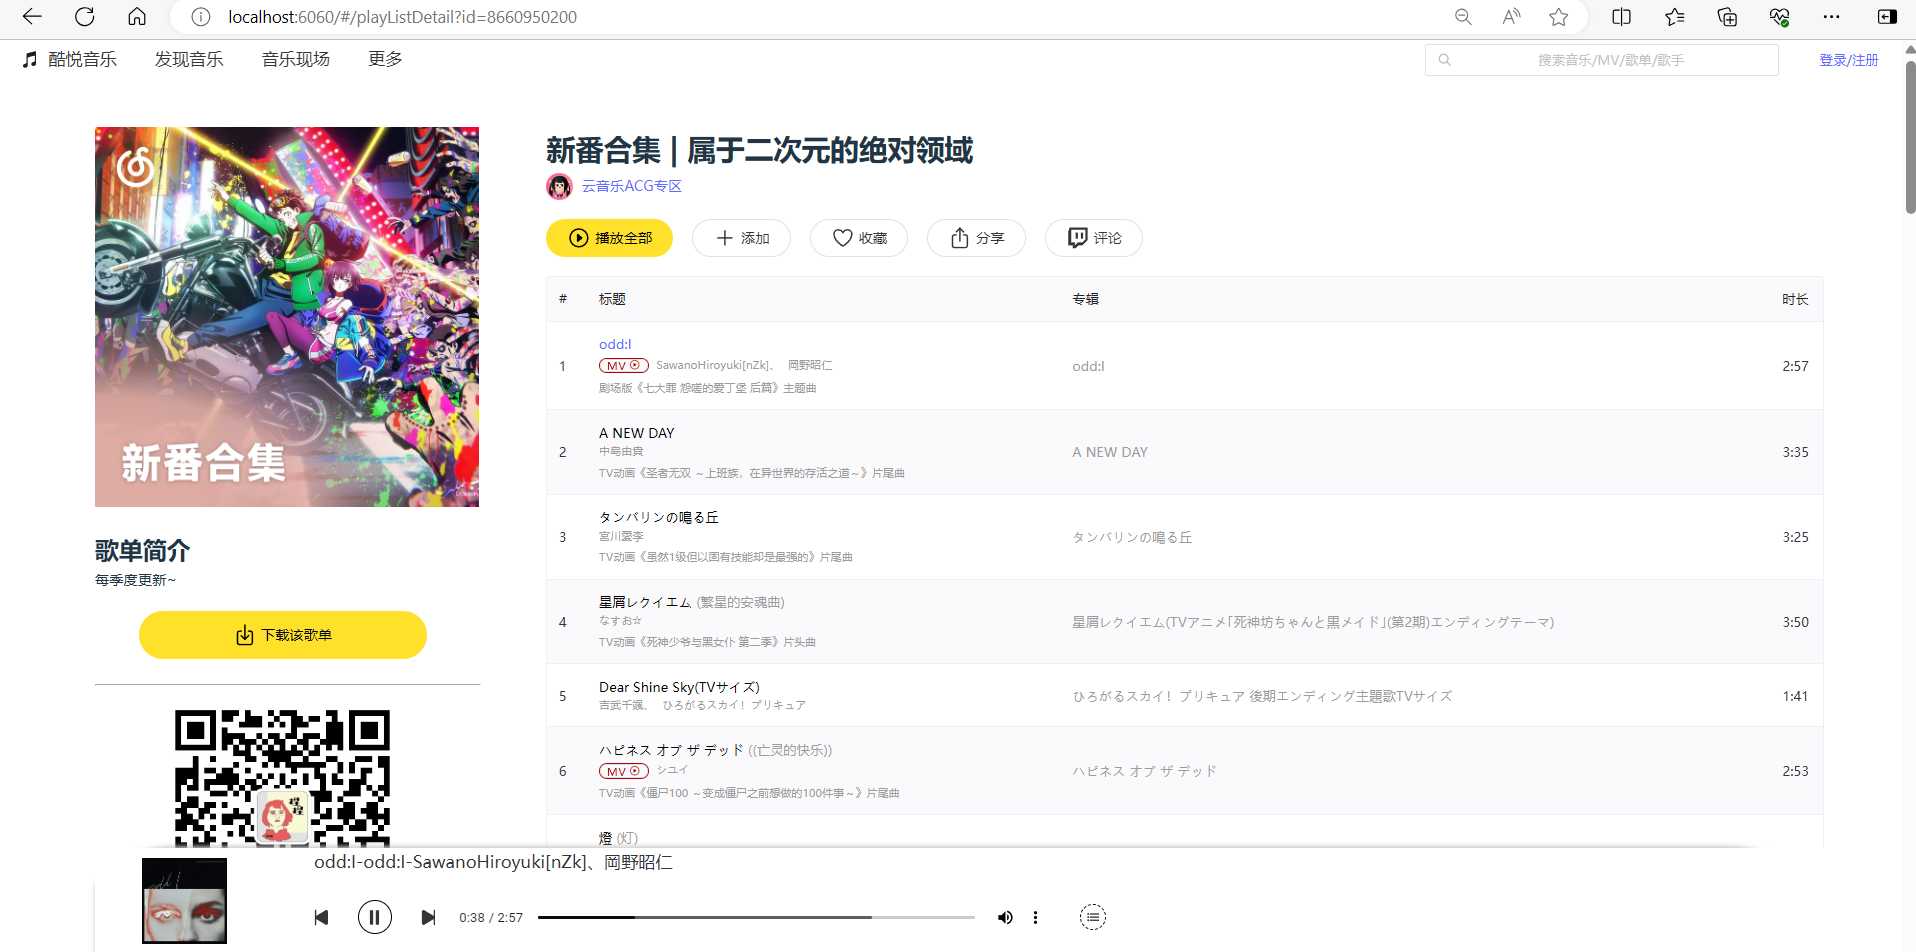
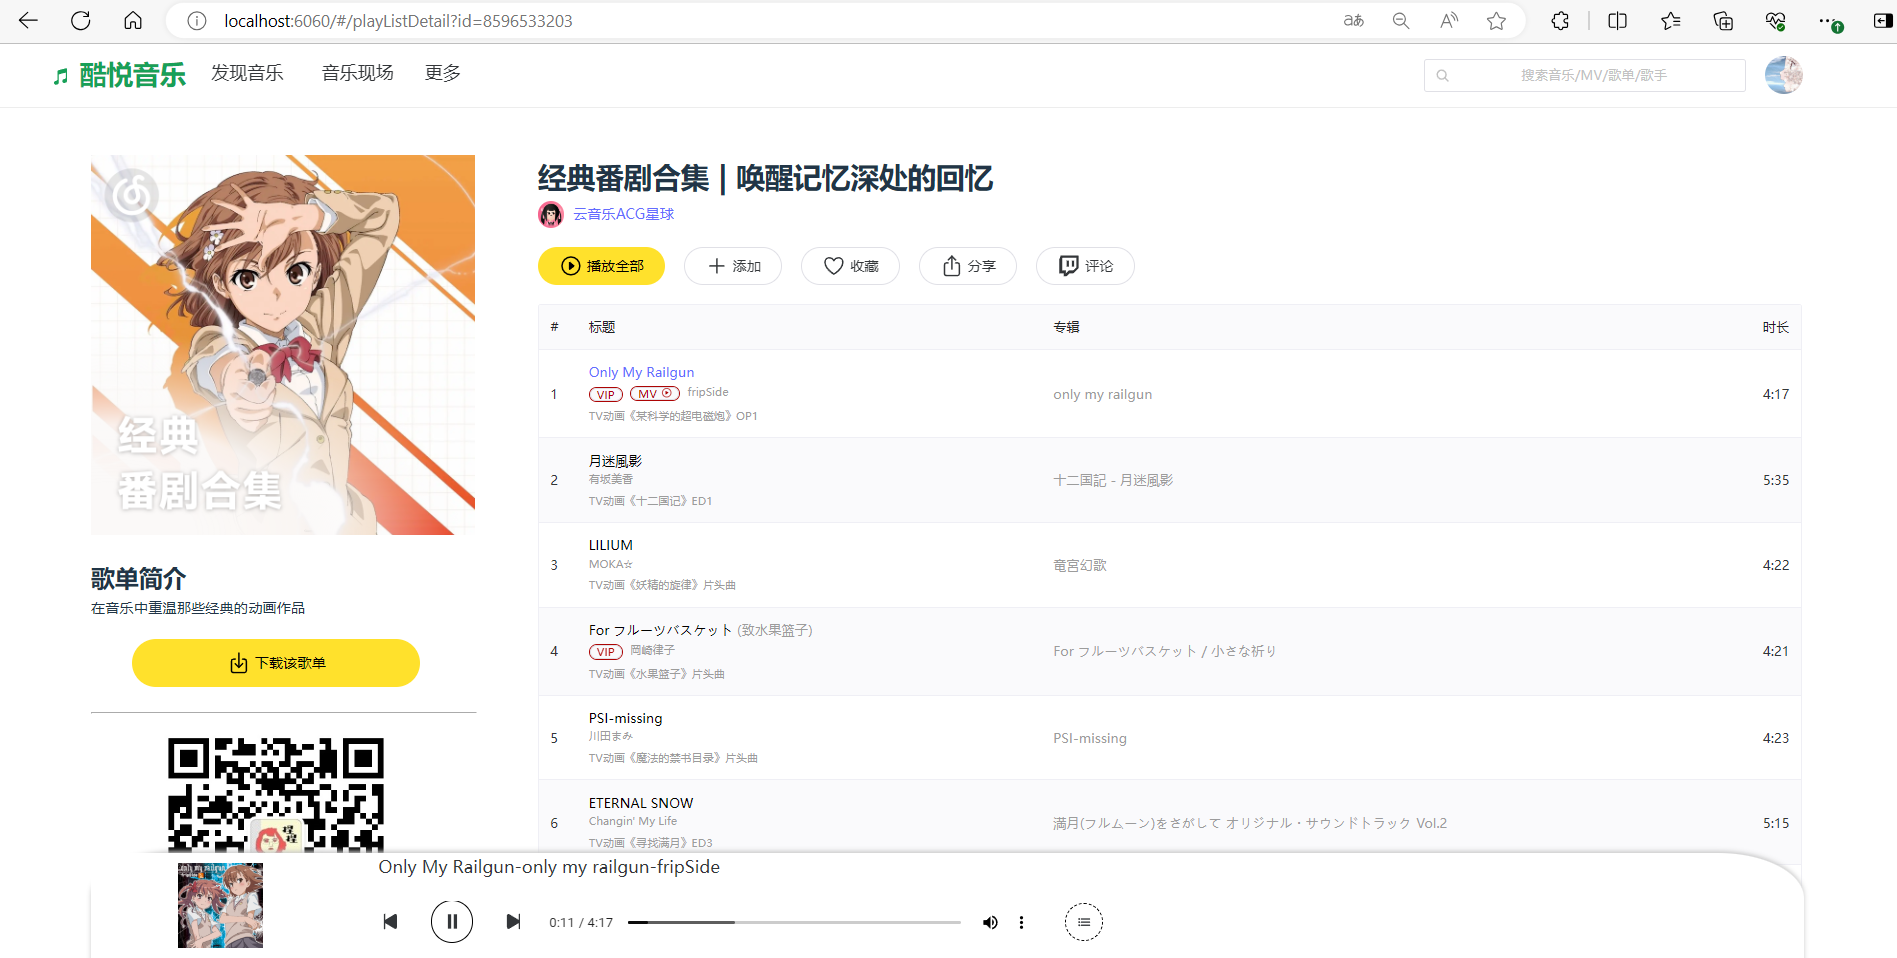
feat: 样式及md文件更新

diff --git a/src/views/Recommend/index.vue b/src/views/Recommend/index.vue
@@ -1,12 +1,12 @@
 <template>
-  <div style="width: 90vw; padding: 0 5vw 0 5vw">
+  <div class="recommend">
     <SecMenuBar></SecMenuBar>
-    <n-carousel trigger="hover" style="width: 100%">
+    <n-carousel trigger="hover">
       <img class="carousel-img" src="../../assets/background.png" />
       <img class="carousel-img" src="../../assets/background.png" />
     </n-carousel>
 
-    <h2 style="float: left">推荐歌单</h2>
+    <div class="titleDiv">推荐歌单</div>
     <n-tabs
       type="line"
       animated
@@ -19,14 +19,13 @@
         :name="item.name"
         :tab="item.name"
       >
-        <div style="width: 90vw; overflow-x: auto; display: -webkit-box">
+        <div class="cardContainer">
           <n-card
             v-for="item in playList"
             :key="item.id"
             :title="item.name"
             :hoverable="true"
             :bordered="false"
-            style="height: 380px; width: 280px; margin: 0px 10px 0px 10px"
             @click="
               () => {
                 $router.push({
@@ -37,15 +36,7 @@
             "
           >
             <template #cover>
-              <img
-                :src="item.coverImgUrl"
-                style="
-                  height: 250px;
-                  width: 250px;
-                  margin-left: 5%;
-                  margin-top: 5%;
-                "
-              />
+              <img :src="item.coverImgUrl" />
             </template>
           </n-card>
         </div>
@@ -87,9 +78,57 @@ const init = async () => {
 init();
 </script>
 <style lang="less" scoped>
+.recommend {
+  width: 90vw;
+  padding: 0 4vw 0 4vw;
+}
+/deep/.n-tabs .n-tabs-tab .n-tabs-tab__label {
+  font-size: 15px;
+}
+.cardContainer {
+  width: 90vw;
+  overflow-x: auto;
+  display: -webkit-box;
+  .n-card {
+    height: 380px;
+    width: 280px;
+    margin: 0px 10px 0px 10px;
+  }
+  img {
+    height: 250px;
+    width: 250px;
+    margin: 5% 0 0 5%;
+  }
+}
+.titleDiv {
+  font-size: 26px;
+  font-weight: 600;
+  float: left;
+  margin-top: 50px;
+}
 .carousel-img {
   width: 100%;
   height: 350px;
   object-fit: cover;
+}
+
+/*滚动条高宽度*/
+.cardContainer::-webkit-scrollbar{
+    height:  8px;
+}
+/*滚动条滑块*/
+.cardContainer::-webkit-scrollbar-thumb{
+    border-radius: 3px;
+    box-shadow: inset 0 0 5px rgba(162, 81, 225, 0.2);
+    background: #dfdfdf;
+}
+/*滚动条里面轨道*/
+.cardContainer ::-webkit-scrollbar-track {
+    box-shadow: 1px 1px 5px rgba(162, 81, 225, 0.2) inset;
+ 
+}
+/*滚动条的小边角*/
+.cardContainer::-webkit-scrollbar-corner {
+    background: transparent;
 }
 </style>

diff --git a/src/components/MenuBar.vue b/src/components/MenuBar.vue
@@ -1,5 +1,5 @@
 <template>
-  <div style="display: flex; align-items: center; max-width: 100vw">
+  <div class="firstMenu">
     <n-menu
       mode="horizontal"
       :options="menuOptions"
@@ -18,7 +18,12 @@
       </template>
     </n-input>
 
-    <a v-if="!isLogin" style="width: 200px" @click="show = true">登录/注册</a>
+    <a
+      v-if="!isLogin"
+      style="width: 200px; margin-right: 5%"
+      @click="show = true"
+      >登录/注册</a
+    >
     <img
       v-else
       :src="avatarUrl"
@@ -116,19 +121,27 @@ const closeModal = () => {
 </script>
 
 <style lang="less" scoped>
-/deep/.n-menu {
-  font-size: 16px !important;
+.firstMenu {
+  display: flex;
+  align-items: center;
+  max-width: 100vw;
+  border-bottom: 1px solid #ededed;
+  height: 66px;
 }
-/deep/.n-menu .n-menu-item-content {
-  margin-left: 20%;
+/deep/.n-menu {
+  font-size: 19px !important;
+  .n-menu-item-content {
+    margin-left: 20%;
+  }
 }
 
 /deep/.n-menu.n-menu--horizontal
   .n-menu-item-content
-  .n-menu-item-content-header
+  .n-menu-item-content-header {
+  margin-top: -5px;
   a {
-  color: var(--n-item-text-color-horizontal);
-  font-weight: 600;
-  font-size: 20px;
+    font-weight: 600;
+    font-size: 28px;
+  }
 }
 </style>

diff --git a/src/components/loginModal.vue b/src/components/loginModal.vue
@@ -86,8 +86,8 @@ const submit = (e: MouseEvent) => {
           message.error(res.data.msg);
         } else {
           sessionStorage.setItem("userInfo", JSON.stringify(res.data));
-          message.success("登录成功");
           emit("showModal", false);
+          window.location.reload();
         }
       });
     }

diff --git a/src/components/SecMenuBar.vue b/src/components/SecMenuBar.vue
@@ -40,7 +40,8 @@ const menuOptions: MenuOption[] = [
 <style lang="less" scoped>
 .recommendDiv {
   /deep/.n-menu {
-    font-size: 14px !important;
+    font-size: 17px !important;
+    padding: 10px 0px;
   }
 }
 </style>
